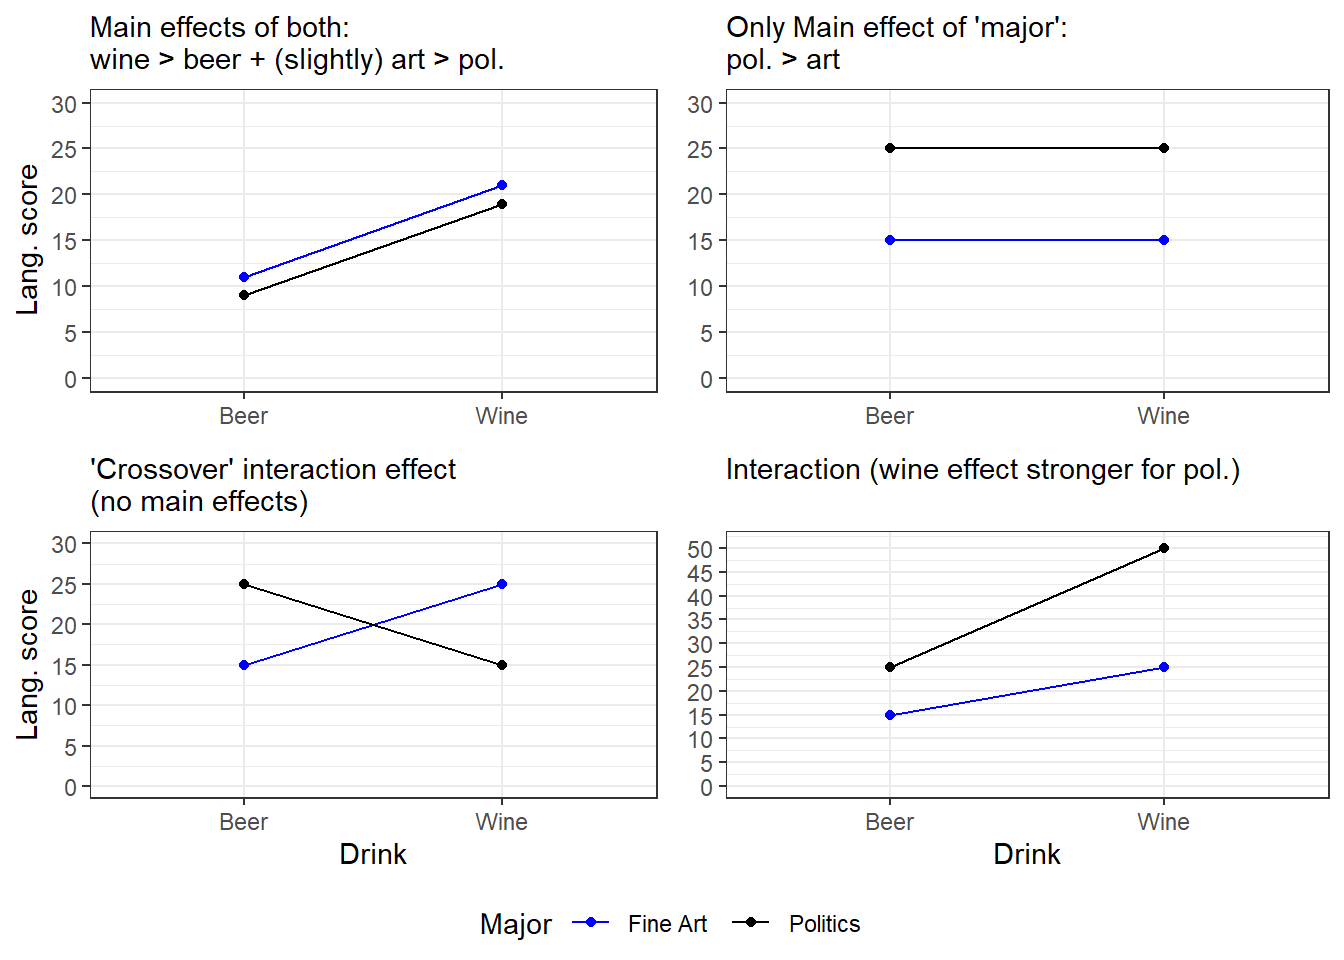
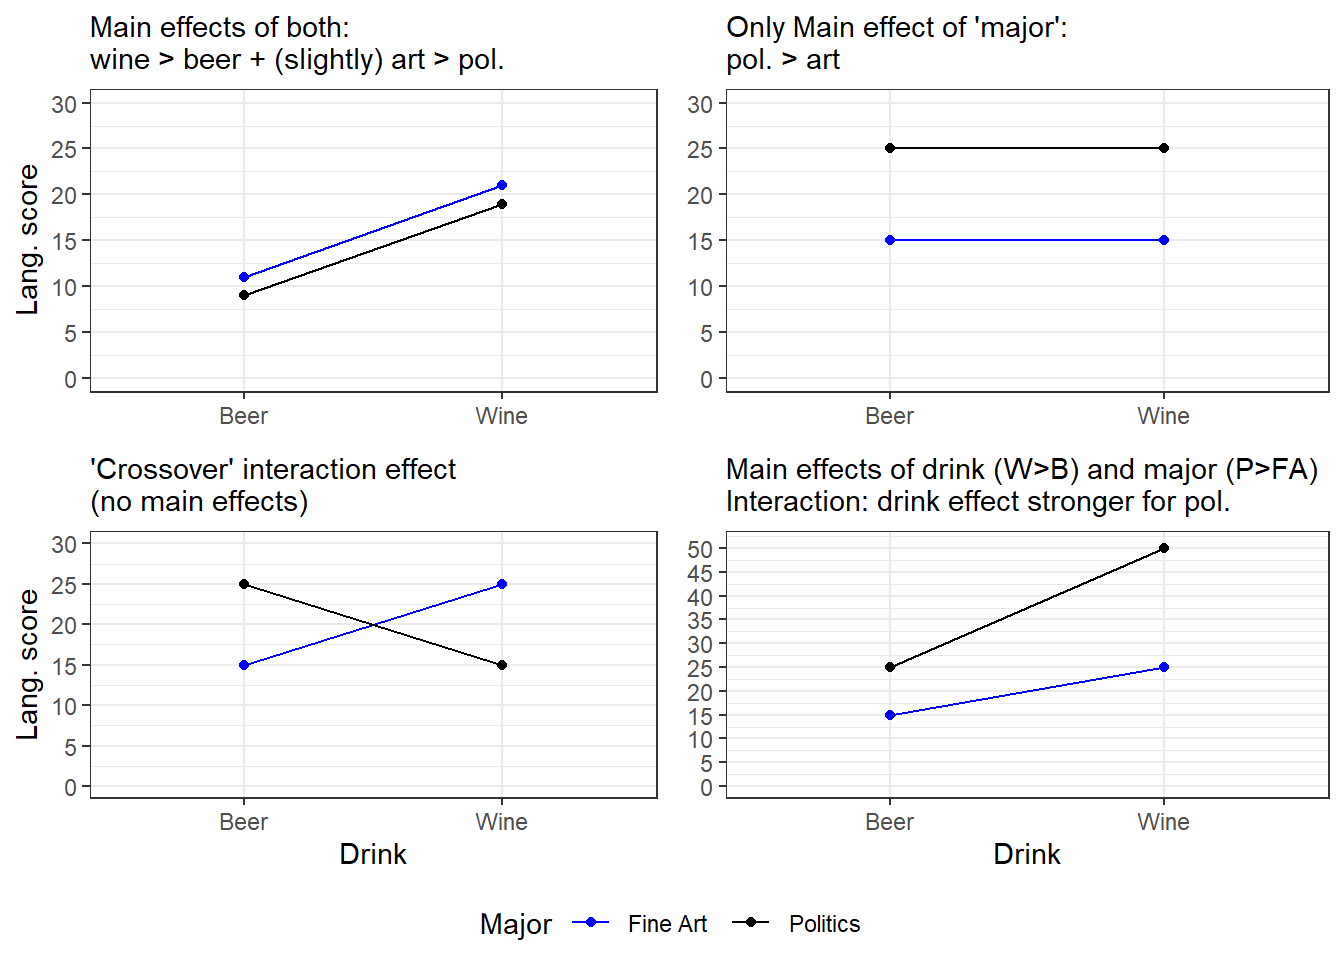
updates

Changed region(s): [[0.5312, 0.4688, 1.0, 0.5312]]

diff --git a/docs/t11.html b/docs/t11.html
@@ -288,17 +288,17 @@ window.Quarto = {
 <h2 data-number="10.2" class="anchored" data-anchor-id="assumptions-of-linear-regression"><span class="header-section-number">10.2</span> Assumptions of linear regression</h2>
 <p>In this course, we will focus on the following assumptions of linear regression:</p>
 <ol type="1">
-<li><b>Linearity: every independent variable should have a <i><u>linear relationship</u></i> with the dependent variable.</b> This assumption is violated if at least one independent variable has a relationship with the dependent variable which is <b> not linear</b> (i.e., curvilinear). Should this be the case, the linear model which you fit will give very biased results, missing the true nature of the relationship between IV(s) and DV. Note that the assumption is not necessarily violated when there appears to be <b>no clear relationship at all</b> between IV(s) and DV; this simply means that the IV might has no predictive power with respect to the DV.
+<li><b>Linearity: every independent variable should have a <i><u>linear relationship</u></i> with the dependent variable.</b> This assumption is violated if at least one independent variable has a relationship with the dependent variable which is <b> not linear</b> (i.e., curvilinear). Should this be the case, the linear model which you fit will give very biased results, missing the true nature of the relationship between IV(s) and DV. Note that the assumption is not necessarily violated when there appears to be <b>no clear relationship at all</b> between IV(s) and DV; this simply means that the IV has very little predictive power with respect to the DV.
 <ul>
 <li><b>Testing the assumption:</b> run scatterplots for <b>each IV against the DV</b>, looking for any clear non-linear relationships. If you do not find these, the assumption is likely upheld.<br>
 </li>
 </ul></li>
 <li><b>Homogeneity of residual variances/homoscedasticity: the model residuals should have a constant variance across all levels of the independent variables.</b> In plainer words, <b> the model should predict the DV similarly well (or poorly) across the different IV scores. </b>
 <ul>
-<li><b>Testing the assumption:</b> you can recycle the scatterplots you use to check for linearity (see above), but this time you can apply a model fit line and checking for the spread of the data around it. If you see that the breadth of the cloud of points around the fit line changes as the IV scores increase (i.e., the cloud shows a funnel pattern, appearing to narrow or broaden as you read from left to right) then this could suggest that indicates that the model’s predictions for that IV are not stable, and the assumption may be violated. Additionally, you should use the <b>zpred. vs.&nbsp;zresid</b> plot for the entire model; this graphs the standardized (z-scored) predictions that the model makes for each IV-score (i.e., on your single-IV scatterplots, the point on the fit line directly above a given IV score on the x-axis) against the standardized residuals (i.e., the prediction error, or difference between the model’s prediction and the actual DV data corresponding to a particular IV score). In homoscedastic data we expect there to be no relationship between residuals and predictions, so a random-ish cloud of points is a good sign. However, if you see funnelling patterns or any other indication of a relationship between residuals and predictions, this assumption may be violated.<br>
+<li><b>Testing the assumption:</b> you can recycle the scatterplots you use to check for linearity (see above), but this time you can apply a model fit line and check for the spread of the data around it. If you see that the breadth of the cloud of points around the fit line changes as the IV scores increase (i.e., the cloud shows a funnel pattern, appearing to narrow or broaden as you read from left to right) then this could suggest that that the model’s predictions for that IV are not stable, and the assumption may be violated. Additionally, you should use the <b>zpred. vs.&nbsp;zresid</b> plot for the entire model; this graphs the standardized (z-scored) predictions that the model makes for each IV-score (i.e., on your single-IV scatterplots, the point on the fit line directly above a given IV score on the x-axis) against the standardized residuals (i.e., the prediction error, or difference between the model’s prediction and the actual DV data corresponding to a particular IV score). In homoscedastic data we expect there to be no relationship between residuals and predictions, so a random-ish cloud of points is a good sign. However, if you see funnelling patterns or any other indication of a relationship between residuals and predictions, this assumption may be violated.<br>
 </li>
 </ul></li>
-<li><b>No high multicollinearity among independent variables: independent variables should not be too strongly correlated with each other.</b> Where IVs are strongly correlated with each other, the regression coefficients become difficult to interpret because they they represent the unique contribution of each variable to the DV, holding other IVs constant.
+<li><b>No high multicollinearity among independent variables: independent variables should not be too strongly correlated with each other.</b> Where IVs are strongly correlated with each other, the regression coefficients become difficult to interpret because they represent the unique contribution of each variable to the DV, holding other IVs constant.
 <ul>
 <li><b>Testing the assumption:</b> You can compute Pearson’s <span class="math inline">\(r\)</span> for all combinations of your independent variables. Ignore the p-values and look at the correlation coefficients: in this course, we will tolerate coefficients with an <b>absolute value</b> smaller than .8.</li>
 </ul></li>
@@ -313,7 +313,7 @@ window.Quarto = {
 <img src="t11_files/figure-html/fig-scatterzplots-1.png" class="img-fluid figure-img" width="672">
 </div>
 <figcaption class="quarto-float-caption-bottom quarto-float-caption quarto-float-fig" id="fig-scatterzplots-caption-0ceaefa1-69ba-4598-a22c-09a6ac19f8ca">
-Figure&nbsp;10.1: A: Scatterplots depicting linear and nonlinear relationships (see strip labels on the left). Linear fit lines are shown in blue, and vertical red dashed lines show the residuals (i.e., the difference between the model’s predictions and the actual DV scores for a given IV score. B: Plots of standardized residuals vs.&nbsp;standardized predictions corresponding to the raw data shown in panel A. The horizontal red dashed lines mark 0 on the y-axis for reference.
+Figure&nbsp;10.1: A. Scatterplots depicting linear and nonlinear relationships (see strip labels on the left). Linear fit lines are shown in blue, and vertical red dashed lines show the residuals (i.e., the difference between the model’s predictions and the actual DV scores for a given IV score. B. Plots of standardized residuals vs.&nbsp;standardized predictions corresponding to the raw data shown in panel A. The horizontal red dashed lines mark 0 on the y-axis for reference.
 </figcaption>
 </figure>
 </div>

diff --git a/docs/a1.html b/docs/a1.html
@@ -278,7 +278,7 @@ window.Quarto = {
 </section>
 <section id="sec-a1chi" class="level2" data-number="A.4">
 <h2 data-number="A.4" class="anchored" data-anchor-id="sec-a1chi"><span class="header-section-number">A.4</span> <span class="math inline">\(\chi^2\)</span></h2>
-<p><span class="math inline">\(\chi^2\)</span>(<em>n</em>, <b>degrees of freedom</b>) = <b>chi-squared value</b>, p = <b>p-value</b></p>
+<p><span class="math inline">\(\chi^2\)</span>(<b>degrees of freedom</b>, <i>N</i> = <b>number of participants</b>) = <b>chi-squared value</b>, p = <b>p-value</b></p>
 </section>
 <section id="sec-a1reg" class="level2" data-number="A.5">
 <h2 data-number="A.5" class="anchored" data-anchor-id="sec-a1reg"><span class="header-section-number">A.5</span> Regression</h2>
